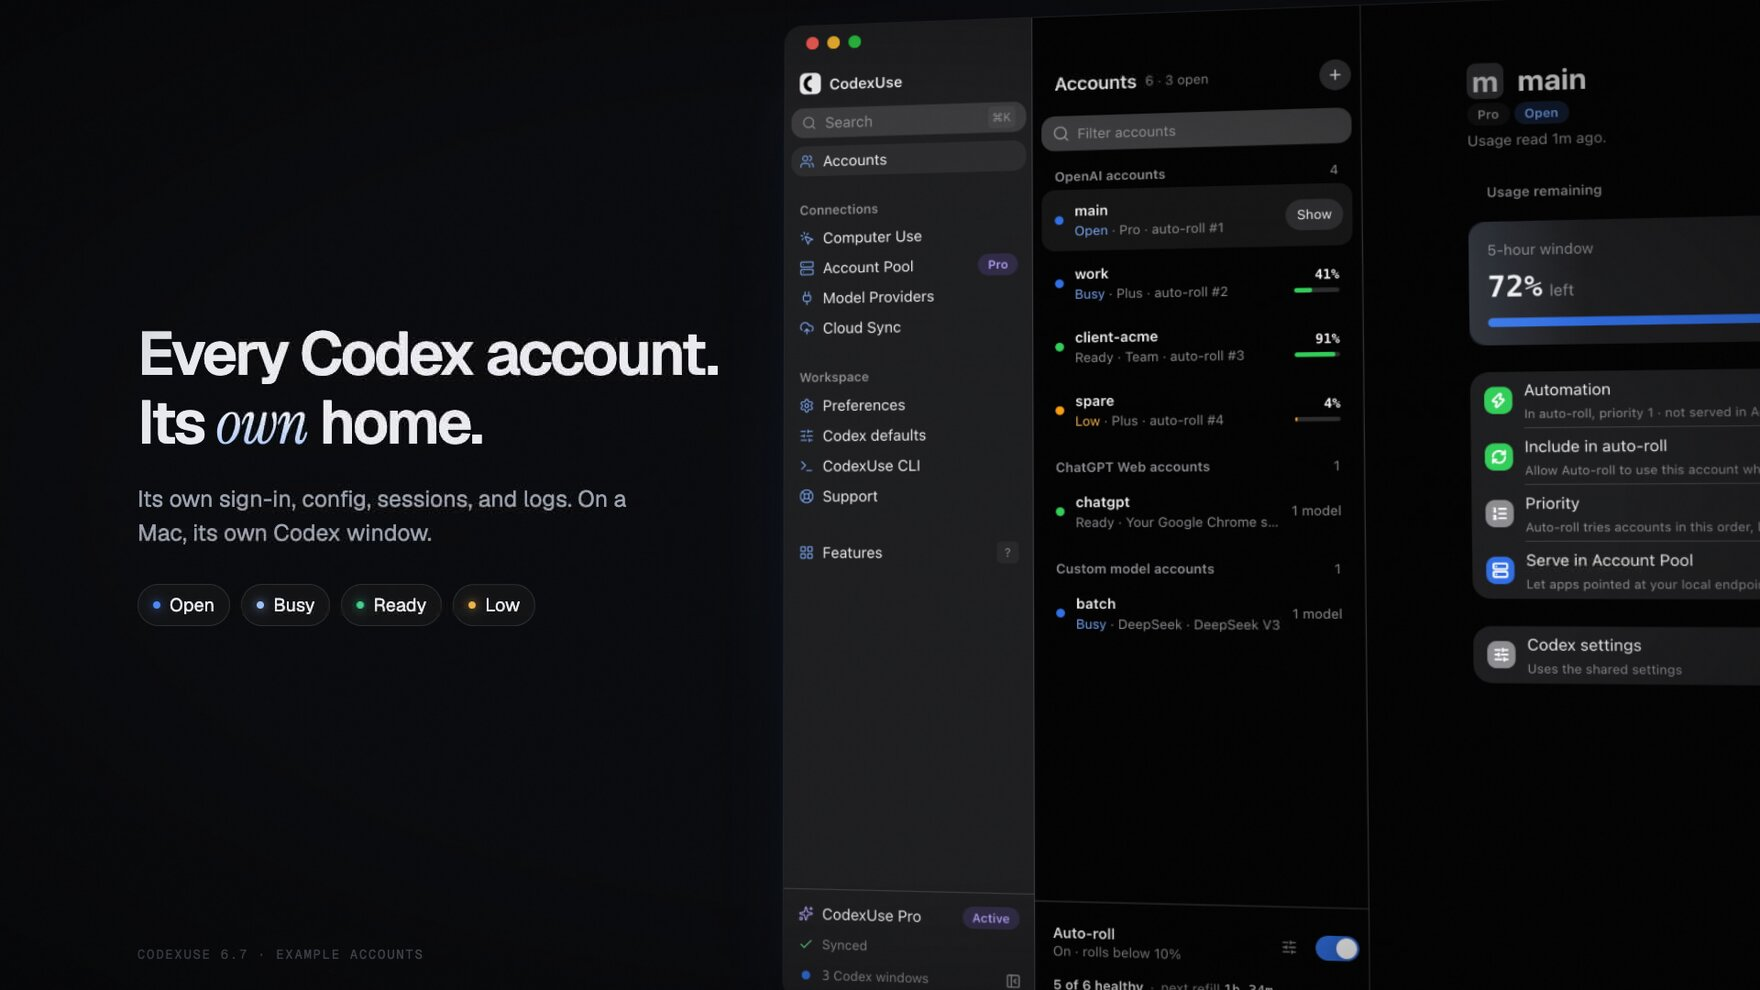
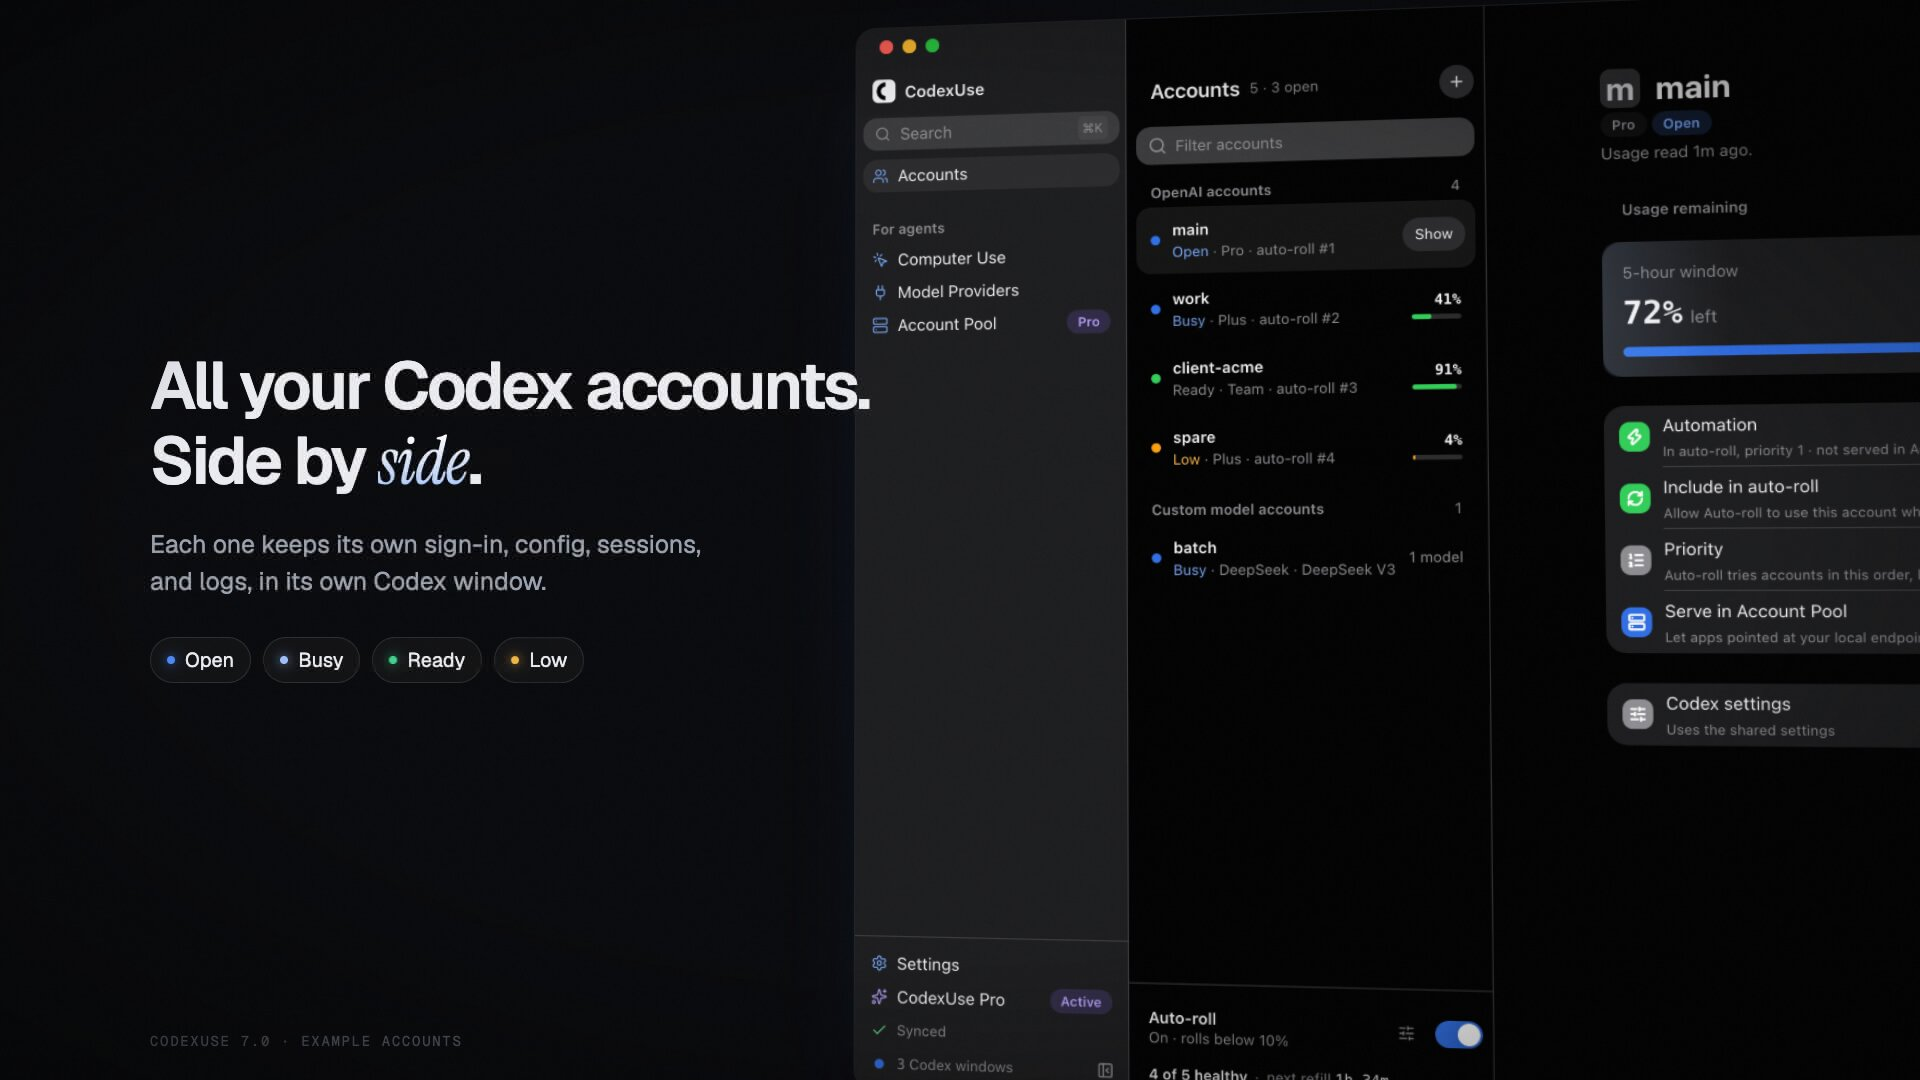
docs: CodexUse 7.0, all your Codex accounts side by side on your Mac

diff --git a/README.md b/README.md
@@ -1,25 +1,22 @@
 <p align="center">
   <a href="https://codexuse.com">
-    <img src=".github/assets/banner.png" width="880" alt="CodexUse. Every Codex account. One app.">
+    <img src=".github/assets/banner.png" width="880" alt="CodexUse. All your Codex accounts, side by side on your Mac.">
   </a>
 </p>
 
 <p align="center">
   <a href="https://github.com/hweihwang/codexuse-desktop-releases/releases/latest"><img alt="Latest release" src="https://img.shields.io/github/v/release/hweihwang/codexuse-desktop-releases?style=flat-square&label=release&labelColor=0c0e18&color=4c8dff"></a>
-  <img alt="macOS, Windows, Linux" src="https://img.shields.io/badge/desktop-macOS%20%C2%B7%20Windows%20%C2%B7%20Linux-4c8dff?style=flat-square&labelColor=0c0e18">
+  <img alt="macOS" src="https://img.shields.io/badge/desktop-macOS-4c8dff?style=flat-square&labelColor=0c0e18">
   <img alt="7-day full trial" src="https://img.shields.io/badge/trial-7%20days%2C%20every%20feature-3dd68c?style=flat-square&labelColor=0c0e18">
 </p>
 
 <p align="center">
-  <a href="https://github.com/hweihwang/codexuse-desktop-releases/releases/latest/download/stable-macos-arm64-CodexUse.dmg"><b>macOS</b></a> ·
-  <a href="https://github.com/hweihwang/codexuse-desktop-releases/releases/latest/download/win-x64-CodexUse-Setup.zip"><b>Windows</b></a> ·
-  <a href="https://github.com/hweihwang/codexuse-desktop-releases/releases/latest/download/linux-x64-CodexUse-Setup.tar.gz"><b>Linux x64</b></a> ·
-  <a href="https://github.com/hweihwang/codexuse-desktop-releases/releases/latest/download/linux-arm64-CodexUse-Setup.tar.gz"><b>Linux arm64</b></a> ·
+  <a href="https://github.com/hweihwang/codexuse-desktop-releases/releases/latest/download/stable-macos-arm64-CodexUse.dmg"><b>Download for Mac</b></a> ·
   <a href="https://codexuse.com"><b>Website</b></a> ·
   <a href="https://codexuse.com/docs/"><b>Docs</b></a>
 </p>
 
-CodexUse is a desktop app for people who use the Codex app and the Codex CLI with more than one account. Every account keeps its own Codex home, and on a Mac its own Codex window. On a Mac, Find task searches local Codex tasks across every account.
+All your Codex accounts, side by side on your Mac. Personal, work and Business workspaces each get their own window of the official Codex app. CodexUse shows which account has headroom, and you keep working when one runs out.
 
 This repository holds the public downloads and the issue tracker. It does not contain the app source. CodexUse is independent and not affiliated with OpenAI.
 
@@ -35,51 +32,34 @@ This repository holds the public downloads and the issue tracker. It does not co
 
 <picture>
   <source media="(prefers-color-scheme: dark)" srcset=".github/assets/accounts-dark.png">
-  <img src=".github/assets/accounts-light.png" width="880" alt="CodexUse Accounts: OpenAI, ChatGPT Web, and custom-model accounts with status words, headroom, and refill timers.">
+  <img src=".github/assets/accounts-light.png" width="880" alt="CodexUse Accounts: OpenAI and custom-model accounts with status words, headroom, and refill timers.">
 </picture>
 
-- **One Codex window per account** on macOS. Open starts it, Show brings it to the front, and no account signs another out.
+- **One Codex window per account**, side by side. Open starts it, Show brings it to the front, and no account signs another out.
 - **Status in one word:** Open, Busy, Ready, Low, Needs sign-in, Needs setup.
-- **Headroom and refill timers** as Codex reports them. Refill controls attempt short background requests; they do not add quota or speed up refill times.
-- **Auto-roll** on macOS moves new work to the next account below a threshold you set. It does not move a running conversation.
-- **Find task** on macOS searches local Codex tasks across accounts and opens each one in the account that owns it.
+- **Headroom and refill timers** as Codex reports them. CodexUse can start refill timers automatically with a short background request; that does not add quota or speed up refill times.
+- **Auto-roll** moves new work to the next account below a threshold you set. It does not move a running conversation.
+- **Find task** searches local Codex tasks across accounts and opens each one in the account that owns it.
 - **Shared Codex defaults** with small per-account overrides.
 
-## More than OpenAI logins
-
-- **ChatGPT Web accounts** answer Codex tasks through the ChatGPT session in your regular Chrome and spend the Chat allowance, not any account's Codex allowance. This is not an official OpenAI integration, and automating ChatGPT may not be permitted under your agreement with OpenAI. Setup needs a signed-in OpenAI account on the same computer, an OpenAI Tunnel with a runtime key, and a connector you create in ChatGPT Developer Mode. [Read the setup and the terms first](https://codexuse.com/docs/chatgpt-web/).
-- **Custom-model accounts** run OpenRouter, DeepSeek, Groq, or a local model inside the Codex app as their own account. You pay the provider directly, and dictation and browser control are unavailable on them.
-- **Account Pool** serves selected accounts to another OpenAI-compatible app as one local API, with load balancing and failover. It runs on your computer and does not raise any account's limit.
-
-## Computer Use for agents
+## For agents
 
 <picture>
   <source media="(prefers-color-scheme: dark)" srcset=".github/assets/computer-use-dark.png">
-  <img src=".github/assets/computer-use-light.png" width="880" alt="CodexUse Settings, Computer Use: the runtime is ready and the server is added to Claude Code and OMP.">
+  <img src=".github/assets/computer-use-light.png" width="880" alt="CodexUse Computer Use: the runtime is ready and the server is added to Claude Code and OMP.">
 </picture>
 
-Claude Code, OMP, and other MCP agents can control Mac apps through OpenAI's Computer Use runtime, and open websites in CodexUse's agent browser: Google Chrome with its own profile, running in the background so it never touches your windows. Import cookies from your browser so agents start signed in. Their own model decides every action, and CodexUse approves each app and site for them, so there are no approval prompts. Add the server only to agents you trust. Settings → Computer Use installs the runtime, copying it from ChatGPT or Codex Desktop when you have one. It needs Apple Silicon macOS, and Google Chrome for websites. This is not an official OpenAI integration, and the runtime can change with any OpenAI update.
+- **Computer Use** lets Claude Code, OMP, and other MCP agents control Mac apps through OpenAI's Computer Use runtime, and open websites in CodexUse's agent browser: Google Chrome with its own profile, running in the background so it never touches your windows. Import cookies from your browser so agents start signed in. Their own model decides every action, and CodexUse approves each app and site for them, so there are no approval prompts. Add the server only to agents you trust. CodexUse → Computer Use installs the runtime, copying it from ChatGPT or Codex Desktop when you have one. It needs Apple Silicon macOS, and Google Chrome for websites. This is not an official OpenAI integration, and the runtime can change with any OpenAI update.
+- **Model Providers** run OpenRouter, DeepSeek, Groq, or a local model inside the Codex app as their own account. You pay the provider directly, and dictation and browser control are unavailable on them.
+- **Account Pool** (advanced) serves selected accounts to another OpenAI-compatible app as one local API, with load balancing and failover. It runs on your computer and does not raise any account's limit.
 
 ## Download and install
 
-| Platform | Package | Notes |
-| --- | --- | --- |
-| macOS 13+ on Apple Silicon | [`stable-macos-arm64-CodexUse.dmg`](https://github.com/hweihwang/codexuse-desktop-releases/releases/latest/download/stable-macos-arm64-CodexUse.dmg) or `brew install --cask hweihwang/codexuse/codexuse` | Updates in the app. Homebrew installs update with `brew upgrade --cask codexuse`. Intel Macs are not supported by the desktop app. |
-| Windows 11 x64 | [`win-x64-CodexUse-Setup.zip`](https://github.com/hweihwang/codexuse-desktop-releases/releases/latest/download/win-x64-CodexUse-Setup.zip) | Windows on ARM runs it under emulation. The installer is unsigned, so SmartScreen may warn. Install new versions manually. |
-| Ubuntu 24.04 x64 | [`linux-x64-CodexUse-Setup.tar.gz`](https://github.com/hweihwang/codexuse-desktop-releases/releases/latest/download/linux-x64-CodexUse-Setup.tar.gz) | Needs GTK and WebKitGTK 4.1. |
-| Ubuntu 24.04 arm64 | [`linux-arm64-CodexUse-Setup.tar.gz`](https://github.com/hweihwang/codexuse-desktop-releases/releases/latest/download/linux-arm64-CodexUse-Setup.tar.gz) | Needs GTK and WebKitGTK 4.1. |
+Requires macOS 13 or later on Apple Silicon. Download [`stable-macos-arm64-CodexUse.dmg`](https://github.com/hweihwang/codexuse-desktop-releases/releases/latest/download/stable-macos-arm64-CodexUse.dmg) or run `brew install --cask hweihwang/codexuse/codexuse`. The app updates itself; Homebrew installs update with `brew upgrade --cask codexuse`. Intel Macs are not supported.
 
 On macOS, open the disk image and drag CodexUse into Applications. If macOS reports a damaged or unverified download, stop and follow the [troubleshooting guide](https://codexuse.com/docs/troubleshooting/). Do not turn off macOS security checks.
 
-| Feature | macOS | Windows | Linux |
-| --- | :---: | :---: | :---: |
-| Separate accounts, each in its own Codex home | ✓ | ✓ | ✓ |
-| ChatGPT Web and custom-model accounts | ✓ | ✓ | ✓ |
-| Headroom, refill timers, Account Pool, Cloud Sync | ✓ | ✓ | ✓ |
-| One Codex window per account, Find task, Auto-roll | ✓ | | |
-| Computer Use for agents | ✓ | | |
-
-The features marked macOS only drive OpenAI's Codex app or ChatGPT Desktop for Mac. The separate [CLI](https://codexuse.com/docs/cli/) runs on all three platforms with `npm install -g codexuse-cli`; it does not have every desktop feature.
+CodexUse also runs on Windows 11 x64 and Ubuntu 24.04 with fewer features: one Codex window per account, Auto-roll, Find task, and Computer Use need macOS. The packages are on the [releases page](https://github.com/hweihwang/codexuse-desktop-releases/releases/latest), and [platform support](https://codexuse.com/docs/desktop/) lists what runs where. The separate [CLI](https://codexuse.com/docs/cli/) installs with `npm install -g codexuse-cli`; it does not have every desktop feature.
 
 OpenAI accounts sign in with the Codex CLI OAuth flow and need no OpenAI API key. Custom-model accounts use a provider credential that you supply.
 
@@ -87,7 +67,7 @@ OpenAI accounts sign in with the Codex CLI OAuth flow and need no OpenAI API key
 
 Try every app feature for 7 days. After that, features lock until a Pro license is activated. Nothing is deleted, and there is no permanent free tier.
 
-Pro is a one-time lifetime license for up to 5 computers in any mix of macOS, Windows, and Linux: $39 regular price, currently $19.50 with the code CODEXUSE50. There is a 30-day refund window. Account quotas and provider charges stay separate.
+Pro is a one-time lifetime license for up to 5 computers: $39 regular price, currently $19.50 with the code CODEXUSE50. There is a 30-day refund window. Account quotas and provider charges stay separate.
 
 Buy inside CodexUse to activate automatically. If you buy on the website, enter the license key from your Gumroad receipt in CodexUse. If you already paid, do not buy again.
 
